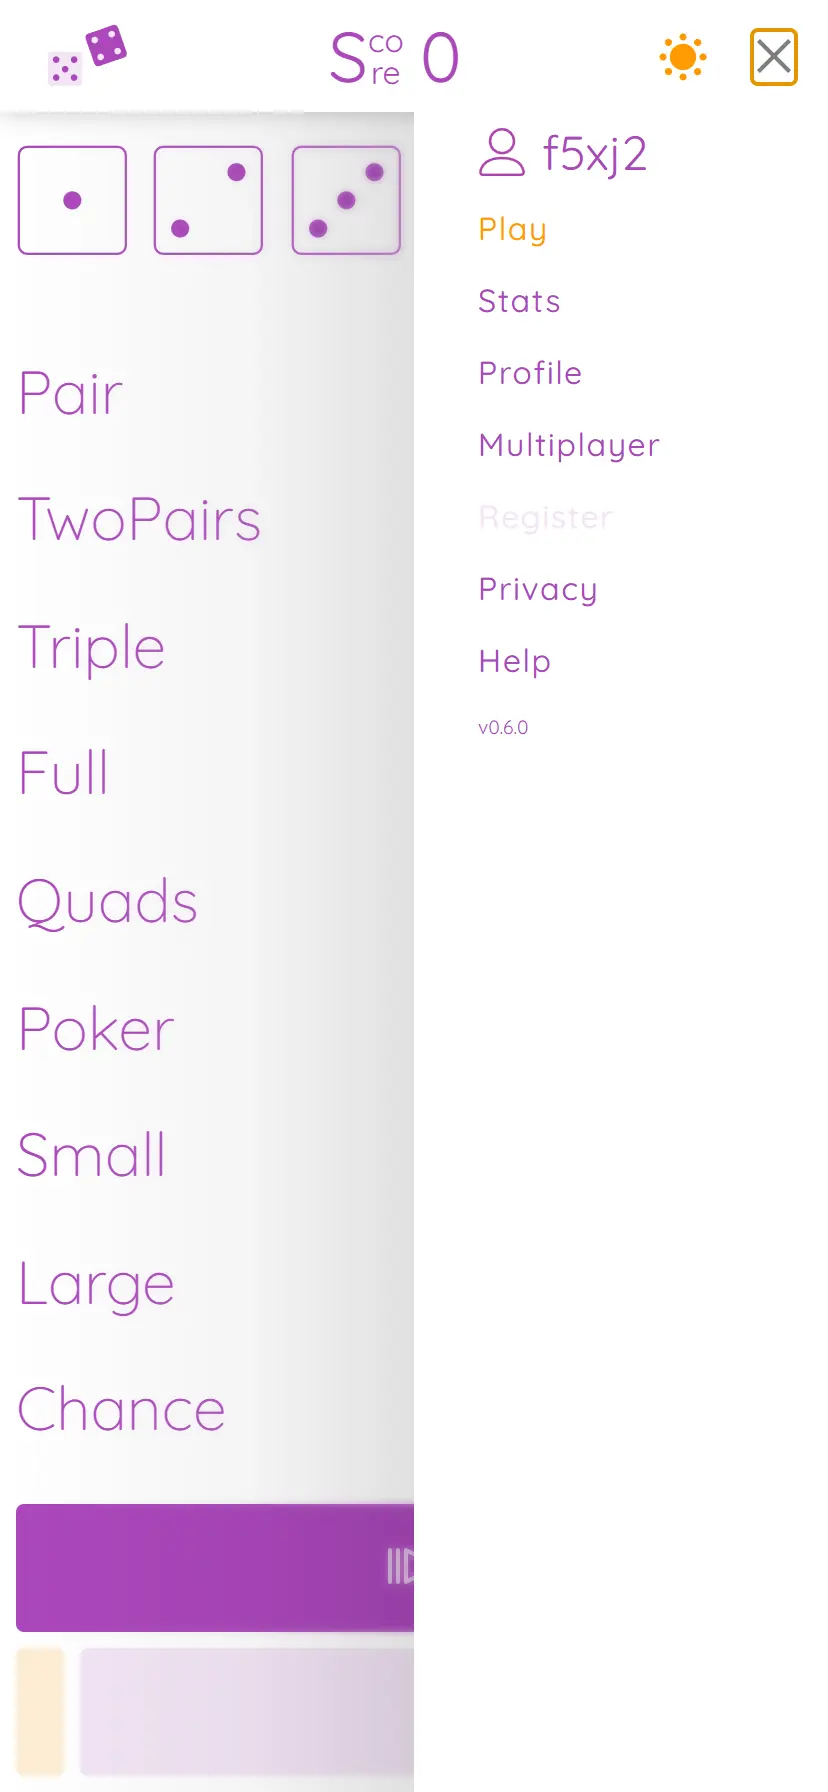
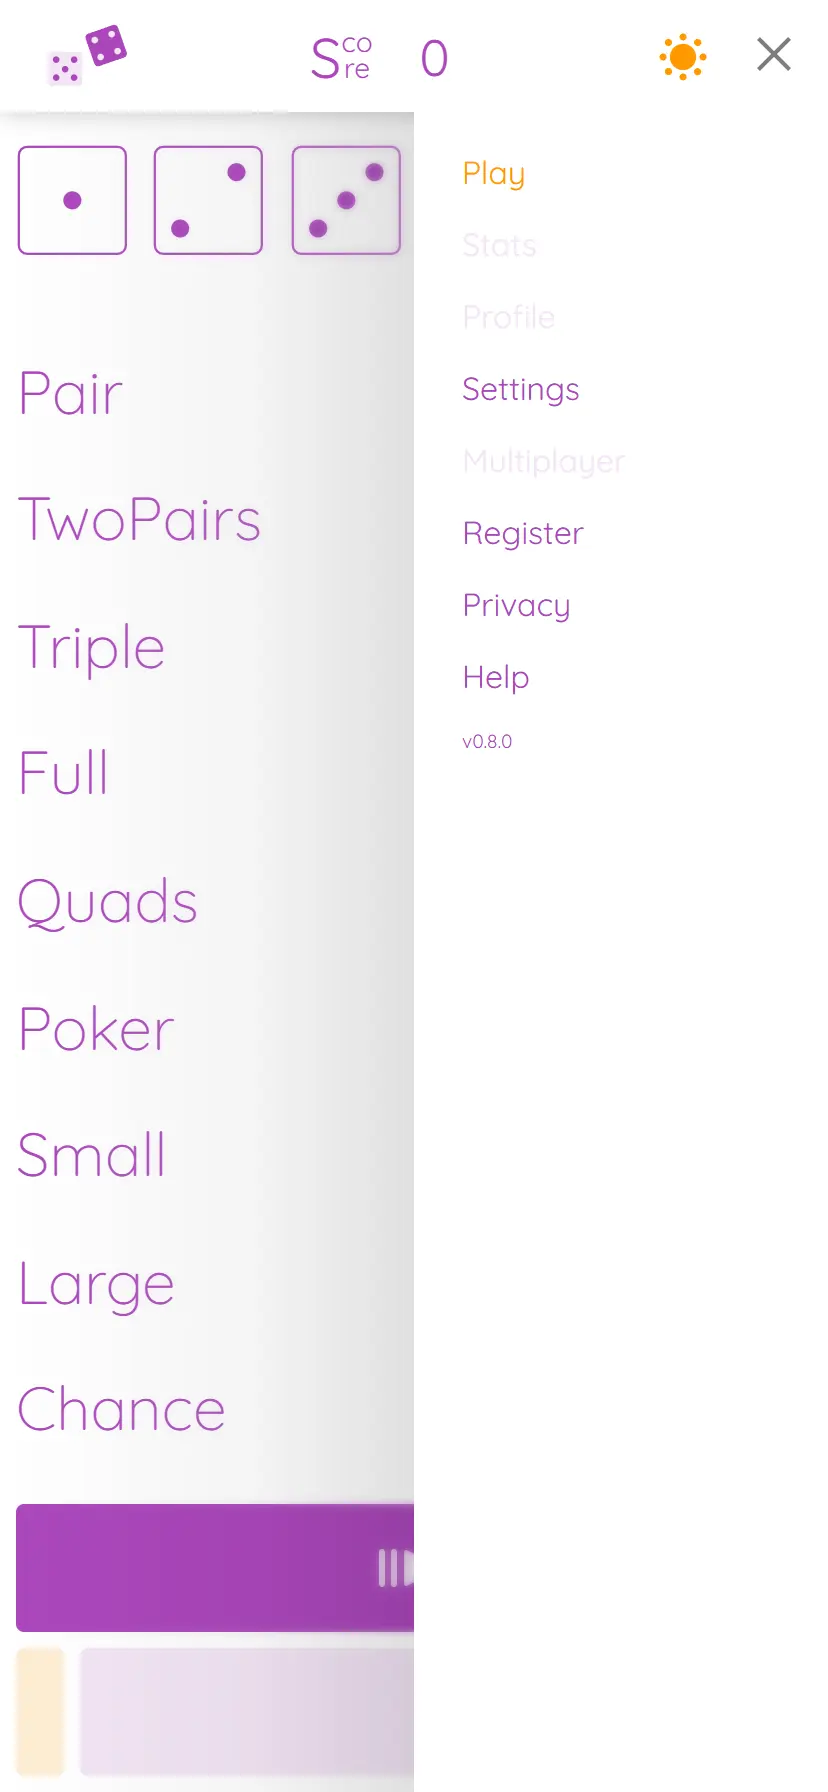
Update sliders, styles, redo page transitions

diff --git a/components/forms/ContactForm.module.sass b/components/forms/ContactForm.module.sass
@@ -1,11 +1,12 @@
-@import '../../styles/colors'
-@import '../../styles/variables'
+@use '../../styles/colors' as *
+@use '../../styles/variables' as *
+@use 'sass:color'
 
 $form-font-size: 1rem
 $desktop-form-font-size: 1.3rem
 $field-padding: .75rem
 $form-ltr-spacing: 1.45px
-$input-background: rgba($highlight-color, 0.03)
+$input-background: color.change($highlight-color, $alpha: 0.03)
 
 .title
   text-align: center
@@ -36,30 +37,30 @@ $input-background: rgba($highlight-color, 0.03)
     accent-color: $highlight-color
 
     &:hover:not(:disabled)
-      border-color: darken($gray, 10%)
-      background-color: rgba($highlight-color, 0.06)
+      border-color: color.adjust($gray, $lightness: -10%)
+      background-color: color.change($highlight-color, $alpha: 0.06)
 
     &:focus
       outline: none
       border-color: $highlight-color
-      background-color: rgba($highlight-color, 0.08)
-      box-shadow: 0 0 0 3px rgba($highlight-color, 0.1)
+      background-color: color.change($highlight-color, $alpha: 0.08)
+      box-shadow: 0 0 0 3px color.change($highlight-color, $alpha: 0.1)
 
     &:active
-      border-color: darken($highlight-color, 10%)
+      border-color: color.adjust($highlight-color, $lightness: -10%)
 
     &[aria-invalid="true"]
-      border-color: rgba($error, 0.4)
-      background-color: rgba($error, 0.01)
+      border-color: color.change($error, $alpha: 0.4)
+      background-color: color.change($error, $alpha: 0.01)
 
       &:focus
         border-color: $error
-        box-shadow: 0 0 0 3px rgba($error, 0.1)
+        box-shadow: 0 0 0 3px color.change($error, $alpha: 0.1)
 
     &:disabled
       opacity: 0.6
       cursor: not-allowed
-      background-color: darken($input-background, 5%)
+      background-color: color.adjust($input-background, $lightness: -5%)
 
     @media screen and (min-width: $large)
       font-size: $desktop-form-font-size
@@ -105,24 +106,24 @@ $input-background: rgba($highlight-color, 0.03)
   .form
     input,
     textarea
-      border-color: darken($gray, 10%)
-      background-color: rgba(white, 0.05)
+      border-color: color.adjust($gray, $lightness: -10%)
+      background-color: color.change(white, $alpha: 0.05)
 
       &:hover:not(:disabled)
-        background-color: rgba(white, 0.08)
+        background-color: color.change(white, $alpha: 0.08)
 
       &:focus
-        border-color: lighten($highlight-color, 10%)
-        background-color: rgba($highlight-color, 0.12)
-        box-shadow: 0 0 0 3px rgba($highlight-color, 0.2)
+        border-color: color.adjust($highlight-color, $lightness: 10%)
+        background-color: color.change($highlight-color, $alpha: 0.12)
+        box-shadow: 0 0 0 3px color.change($highlight-color, $alpha: 0.2)
 
       &[aria-invalid="true"]
-        border-color: rgba(lighten($error, 10%), 0.5)
-        background-color: rgba($error, 0.05)
+        border-color: color.change(color.adjust($error, $lightness: 10%), $alpha: 0.5)
+        background-color: color.change($error, $alpha: 0.05)
 
         &:focus
-          border-color: lighten($error, 10%)
-          box-shadow: 0 0 0 3px rgba($error, 0.15)
+          border-color: color.adjust($error, $lightness: 10%)
+          box-shadow: 0 0 0 3px color.change($error, $alpha: 0.15)
 
   .errorMsg
-    color: lighten($error, 10%)
+    color: color.adjust($error, $lightness: 10%)

diff --git a/components/layout/Slider/MainSlider.tsx b/components/layout/Slider/MainSlider.tsx
@@ -10,7 +10,7 @@ import styles from "./MainSlider.module.sass";
 const itemsToShow = [...items].sort((a, b) => a.id - b.id);
 
 const MainSlider: FC = () => {
-  const [emblaRef, emblaApi] = useEmblaCarousel({ loop: true });
+  const [emblaRef, emblaApi] = useEmblaCarousel();
   const [selectedIndex, setSelectedIndex] = useState(0);
 
   const scrollPrev = useCallback(() => emblaApi?.scrollPrev(), [emblaApi]);
@@ -19,9 +19,15 @@ const MainSlider: FC = () => {
   useEffect(() => {
     if (!emblaApi) return;
     const onSelect = () => setSelectedIndex(emblaApi.selectedScrollSnap());
+
+    onSelect();
+
     emblaApi.on("select", onSelect);
+    emblaApi.on("reInit", onSelect);
+
     return () => {
       emblaApi.off("select", onSelect);
+      emblaApi.off("reInit", onSelect);
     };
   }, [emblaApi]);
 
@@ -30,10 +36,18 @@ const MainSlider: FC = () => {
   return (
     <div className={styles.container}>
       <div className={styles.carouselWrapper}>
-        <div className={styles.viewport} ref={emblaRef}>
-          <div className={styles.slideContainer}>
+        <div
+          className={styles.viewport}
+          ref={emblaRef}
+          style={{ overflow: "hidden" }}
+        >
+          <div className={styles.slideContainer} style={{ display: "flex" }}>
             {itemsToShow.map((item) => (
-              <div key={item.id} className={styles.slide}>
+              <div
+                key={item.id}
+                className={styles.slide}
+                style={{ flex: "0 0 100%", minWidth: 0, overflow: "hidden" }}
+              >
                 <div className={styles.imgBox}>
                   <Image
                     src={item.imageUrl}
@@ -41,6 +55,8 @@ const MainSlider: FC = () => {
                     width={4368}
                     height={2892}
                     sizes={SLIDER_IMG_SIZES}
+                    className={styles.slideImg}
+                    style={{ width: "100%", height: "auto" }}
                   />
                 </div>
               </div>

diff --git a/components/layout/Slider/ProjectSlider.tsx b/components/layout/Slider/ProjectSlider.tsx
@@ -17,18 +17,32 @@ const ProjectSlider: FC<projectCarouselProps> = ({
   useEffect(() => {
     if (!emblaApi) return;
     const onSelect = () => setSelectedIndex(emblaApi.selectedScrollSnap());
+
+    onSelect();
+
     emblaApi.on("select", onSelect);
+    emblaApi.on("reInit", onSelect);
+
     return () => {
       emblaApi.off("select", onSelect);
+      emblaApi.off("reInit", onSelect);
     };
   }, [emblaApi]);
 
   return (
     <div>
-      <div className={styles.viewport} ref={emblaRef}>
-        <div className={styles.slideContainer}>
+      <div
+        className={styles.viewport}
+        ref={emblaRef}
+        style={{ overflow: "hidden" }}
+      >
+        <div className={styles.slideContainer} style={{ display: "flex" }}>
           {images.map((url, index) => (
-            <div key={url} className={styles.slide}>
+            <div
+              key={url}
+              className={styles.slide}
+              style={{ flex: "0 0 100%", minWidth: 0, overflow: "hidden" }}
+            >
               <div className={styles.imgBox}>
                 <Image
                   src={url}

diff --git a/pages/_app.tsx b/pages/_app.tsx
@@ -7,15 +7,9 @@ import { ThemeProvider } from "../context/ThemeContext";
 
 import "../styles/globals.scss";
 import Layout from "../components/layout/Layout";
-
-// page transitions
-import PageTransition, {
-  useAsPathWithoutHash,
-} from "@madeinhaus/nextjs-page-transition";
-import "@madeinhaus/nextjs-page-transition/dist/index.css";
+import Transition from "../components/layout/Transition";
 
 function App({ Component, pageProps }: AppProps) {
-  const key = useAsPathWithoutHash();
   const router = useRouter();
 
   useEffect(() => {
@@ -75,9 +69,9 @@ function App({ Component, pageProps }: AppProps) {
       />
       <ThemeProvider>
         <Layout>
-          <PageTransition as="div" inPhaseDuration={250} outPhaseDuration={250}>
-            <Component {...pageProps} key={key} />
-          </PageTransition>
+          <Transition>
+            <Component {...pageProps} />
+          </Transition>
         </Layout>
       </ThemeProvider>
     </>

diff --git a/components/layout/Slider/ProjectSlider.module.sass b/components/layout/Slider/ProjectSlider.module.sass
@@ -1,5 +1,5 @@
-@import '../../../styles/colors'
-@import '../../../styles/variables'
+@use '../../../styles/colors' as *
+@use '../../../styles/variables' as *
 
 .viewport
   overflow: hidden
@@ -10,6 +10,7 @@
 .slide
   flex: 0 0 100%
   min-width: 0
+  overflow: hidden
 
 .imgBox
   padding: 1.5rem
@@ -18,9 +19,10 @@
     margin-bottom: 1rem
 
 .slideImg
-  margin: 0rem auto
+  display: block
+  margin: 0 auto
   width: 100%
-  height: 100%
+  height: auto
   box-shadow: var(--img-shadow)
   @media screen and (min-width: $large)
     max-width: 400px

diff --git a/components/layout/Slider/MainSlider.module.sass b/components/layout/Slider/MainSlider.module.sass
@@ -1,5 +1,5 @@
-@import '../../../styles/_colors'
-@import '../../../styles/_variables'
+@use '../../../styles/colors' as *
+@use '../../../styles/variables' as *
 
 .container
   margin: 0
@@ -19,6 +19,7 @@
 .slide
   flex: 0 0 100%
   min-width: 0
+  overflow: hidden
 
 .imgBox
   padding: 0 1rem
@@ -27,7 +28,8 @@
   @media screen and (min-width: $medium)
     padding: 0 10rem
 
-.imgBox img
+.slideImg
+  display: block
   width: 100%
   height: auto
   box-shadow: var(--img-shadow)

diff --git a/components/layout/Toast.module.sass b/components/layout/Toast.module.sass
@@ -1,5 +1,5 @@
-@import '../../styles/colors'
-@import '../../styles/variables'
+@use '../../styles/colors' as *
+@use '../../styles/variables' as *
 
 $mobileWidth: 250px
 $desktopWidth: 400px
@@ -21,11 +21,11 @@ $bottomPos: 30px
   max-width: $mobileWidth
   min-width: $mobileWidth
   /* Divide value of min-width by 2
-  margin-left: (-$mobileWidth) / 2
+  margin-left: calc((-1 * ($mobileWidth)) / 2)
   @media screen and ( min-width: $medium)
     max-width: $desktopWidth
     min-width: $desktopWidth
-    margin-left: (-$desktopWidth) / 2
+    margin-left: calc((-1 * ($desktopWidth)) / 2)
   // Styles
   color: #fff
   text-align: left

diff --git a/components/navigation/NavBar.module.sass b/components/navigation/NavBar.module.sass
@@ -1,5 +1,5 @@
-@import '../../styles/colors'
-@import '../../styles/variables'
+@use '../../styles/colors' as *
+@use '../../styles/variables' as *
 
 .nav
   height: $navbarHeight // TODO: mobile navbar height
@@ -18,7 +18,7 @@
     padding: 0 3rem
 
 .hiddenNav
-  top: -$navbarHeight
+  top: -($navbarHeight)
   opacity: 0
 
 .visibleNav

diff --git a/styles/Main.module.scss b/styles/Main.module.scss
@@ -1,8 +1,8 @@
-@import "variables";
-@import "colors";
+@use "variables" as *;
+@use "colors" as *;
 
 .main {
-  margin-top: -$navbarHeight;
+  margin-top: -($navbarHeight);
   display: flex;
   flex-direction: column;
 }

diff --git a/components/layout/Transition.tsx b/components/layout/Transition.tsx
@@ -12,7 +12,7 @@ const Transition: FC<layoutProps> = ({ children }) => {
       x: 0,
       y: -50,
       transition: {
-        duration: 0.75,
+        duration: 0.5,
       },
     },
     enter: { opacity: 1, x: 0, y: 0 },
@@ -21,8 +21,7 @@ const Transition: FC<layoutProps> = ({ children }) => {
       x: 0,
       y: -50,
       transition: {
-        duration: 0.75,
-        delay: 1,
+        duration: 0.5,
       },
     },
   };

diff --git a/components/blog/BlogControls.module.sass b/components/blog/BlogControls.module.sass
@@ -1,5 +1,5 @@
-@import '../../styles/variables'
-@import '../../styles/colors'
+@use '../../styles/variables' as *
+@use '../../styles/colors' as *
 
 .controls
   display: flex

diff --git a/components/blog/PostCard.module.sass b/components/blog/PostCard.module.sass
@@ -1,5 +1,5 @@
-@import '../../styles/variables'
-@import '../../styles/colors'
+@use '../../styles/variables' as *
+@use '../../styles/colors' as *
 
 .heading
   color: var(--text)